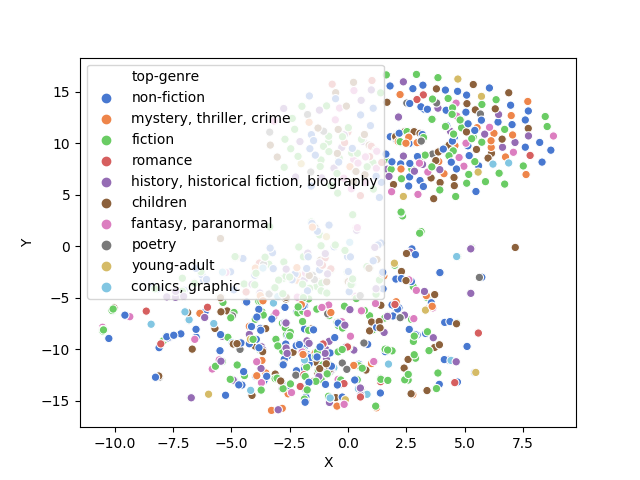
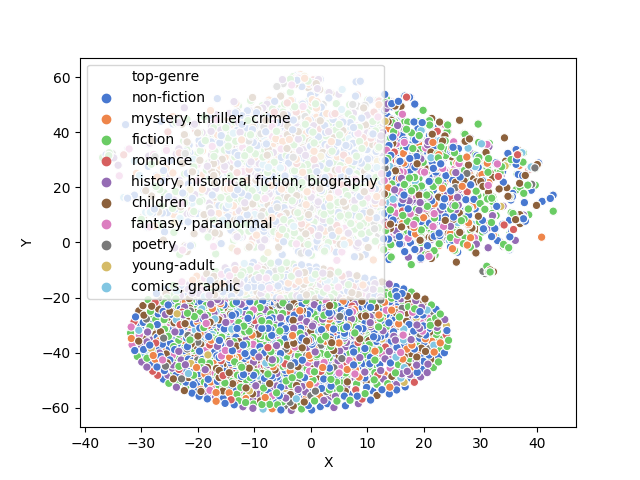
new plot

diff --git a/viz.py b/viz.py
@@ -13,7 +13,7 @@
 
 # python tsneplot()
 
-def tsneplot(seed = 42, fig_path = 'tsne.png'):
+def tsneplot(sample = 10000, seed = 42, fig_path = 'tsne.png'):
     """
     items_path='items_matrix.csv' : load the matrix with latent factors, id, genre
     rank: how many features are there?
@@ -39,7 +39,7 @@ def tsneplot(seed = 42, fig_path = 'tsne.png'):
     num_features = items.shape[1]
 
     # sample data
-    items = items.sample(n=1000, random_state=seed, replace=False)
+    items = items.sample(n=sample, random_state=seed, replace=False)
     print('sampled data.')
 
     tsne = TSNE(n_components=2, random_state=seed)
